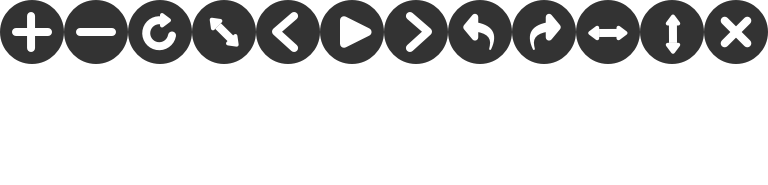
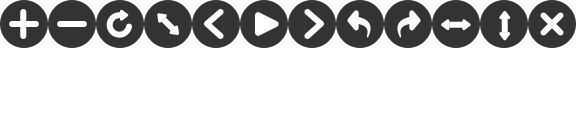
'opt'

diff --git a/src/RayrImgview.scss b/src/RayrImgview.scss
@@ -13,7 +13,7 @@
     align-items: center;
     justify-content: center;
     .imgview-icon {
-        background-size: 384px 92.5px;
+        background-size: 288px 70px;
         background-repeat: no-repeat;
         background-image: url("./icon.png");
     }
@@ -21,8 +21,8 @@
         position: absolute;
         right: 20px;
         top: 20px;
-        width: 32px;
-        height: 32px;
+        width: 24px;
+        height: 24px;
         background-position: -352px 0;
         cursor: pointer;
     }
@@ -39,30 +39,30 @@
         display: flex;
         left: 50%;
         transform: translate(-50%, 0);
-        bottom: 200px;
+        bottom: 150px;
         span {
-            width: 32px;
-            height: 32px;
-            margin-right: 15px;
+            width: 24px;
+            height: 24px;
+            margin-right: 8px;
             &:last-child {
                 margin-right: 0;
             }
             cursor: pointer;
         }
         span.plus {
-            background-position:  0 0;
+            background-position: 0 0;
         }
         span.minus {
-            background-position:  -32px 0;
+            background-position: -24px 0;
         }
         span.left {
-            background-position:  -224px 0;
+            background-position: -168px 0;
         }
         span.right {
-            background-position:  -256px 0;
+            background-position: -192px 0;
         }
         span.refresh {
-            background-position:  -64px 0;
+            background-position: -48px 0;
         }
     }
 }

diff --git a/src/view.js b/src/view.js
@@ -92,7 +92,7 @@ export default function (src) {
 
             minusFn() {
                 const {iNow} = this.state;
-                
+
                 if (iNow < 0.1) {
                     return;
                 }

diff --git a/README.md b/README.md
@@ -1,1 +1,6 @@
 # React lilei
+
+```javascript
+<RayrImgview className="imgview-demo" alt='测试' src=""/>
+
+```
